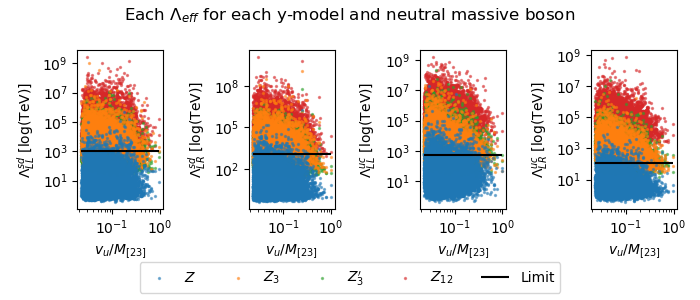
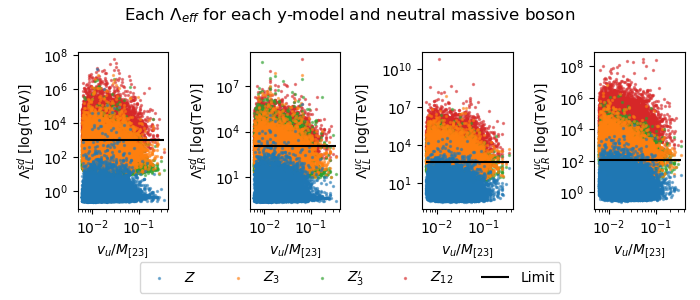
good results :)

diff --git a/simplemodel.py b/simplemodel.py
@@ -38,9 +38,10 @@ def get_delta2_V(g, gs, vs):
 # Function for minimize() that finds the gs that give the Z-boson mass
 # There should be an exact analytical solution to this.
 def closest_Z_mass(gs, mzs,g, vs):
-    M_b = build_M_b(g,gs,vs)
-    Delta2, V = fs.gauge_boson_basis(M_b) 
-    return np.sqrt(Delta2[1:]) - mzs
+    #M_b = build_M_b(g,gs,vs)
+    #Delta2, V = fs.gauge_boson_basis(M_b) 
+    Delta2, V = get_delta2_V(g,gs,vs)
+    return np.sqrt(2*Delta2[1:]) - mzs
 
 # Returns the basis for the Z-coupling in the standard model, with [I_L3, Q]
 def get_base_Z(g,g_prim):
@@ -188,7 +189,7 @@ def alt_solve_for_ys(ys,g,g_prim,v_us,v_ds, V, M_Us, m_us, m_ds):
 
     return compares
 
-def get_g_models(filename, g, search_for_gs = False):
+def get_g_models(filename, g, search_for_gs = False, verbose = False):
     if search_for_gs:
         v_chis = np.arange(1000,10000,10)
         m_Z3s = np.arange(1000,10000,10)
@@ -209,15 +210,17 @@ def get_g_models(filename, g, search_for_gs = False):
                 mzs = np.array([conts.m_Z, m_Z3, m_Z3prim, m_Z12])
                 gs, infodict,ier,mesg = fsolve(closest_Z_mass, gs,args=(mzs, g, vs), full_output=True, factor = 0.1)
                 diff = infodict["fvec"]
+                #print(gs)
                 
-                if all(gs <= 2)  and all(gs > 0.01) and np.abs(diff) < 1e-5:
+                if all(gs <= 2)  and all(gs > 0.01) and all(np.abs(diff) < 1e-5):
                     tmp_list = [mzs, vs, gs]
                     model_list.append(tmp_list)
-                    print(f"Successful model")
-                    print(f"gs: {gs}")
-                    print(f"vs : {vs}")
-                    print(f"mzs: {mzs}")
-                    print(f"Diff m_Zs = {diff}")                    
+                    if verbose:
+                        print(f"Successful model")
+                        print(f"gs: {gs}")
+                        print(f"vs : {vs}")
+                        print(f"mzs: {mzs}")
+                        print(f"Diff m_Zs = {diff}")                    
         if model_list:
             np.savez(filename, *model_list)
     
@@ -370,7 +373,8 @@ def refine_y_models(filename, y_model_list, g_model_list, cost_tol = 0.5, max_it
             res = least_squares(solve_for_ys, ys, args=(v_us,v_ds,V,M_Us,m_us,m_ds), 
                         loss = "linear", method= "trf", jac = "3-point", tr_solver="exact", max_nfev=max_iters, bounds = (-2,2)) #
         ys = res.x
-       # print(res.cost)
+        if verbose:
+            print(res.cost)
         if res.cost < cost_tol and all(np.abs(ys) > 0.01):
             successes += 1
             if alt:
@@ -504,6 +508,19 @@ def refine_y_models_old(filename, y_model_list, g_model_list, cost_tol = 0.5, ma
     print(f"The number of y_models is: {len(model_list)}")
     return model_list
 
+def pick_g_models(in_model_list, n_idxs = 1):
+    v_list = np.array([model[1,1] for model in in_model_list])
+    uniques, unique_idxs = np.unique(v_list, return_index=True)
+    unique_idxs = np.append(unique_idxs, len(v_list))
+    random_idxs = [np.random.randint(unique_idxs[i],unique_idxs[i+1], n_idxs) if n_idxs <= unique_idxs[i+1]-unique_idxs[i] 
+                   else np.random.randint(unique_idxs[i],unique_idxs[i+1],unique_idxs[i+1]-unique_idxs[i]) 
+                   for i in range(len(unique_idxs)-1)
+                   ]
+    random_idxs = np.concatenate(random_idxs).ravel()
+    out_model_list = [in_model_list[idx] for idx in random_idxs]
+    print(v_list[random_idxs])
+    return out_model_list
+
 if __name__ == "__main__":
     # According to definition
     g = conts.e_em/np.sqrt(conts.sw2)
@@ -514,14 +531,16 @@ if __name__ == "__main__":
     search_for_ys = False
     g_plotting = False
     y_plotting = True
-    g_model_list = get_g_models("correct_g_models.npz", g, search_for_gs)
+    g_model_list = get_g_models("correct_g_models_again.npz", g, search_for_gs)
 
-    #y_filename = "y_models_dof_28_1.npz"
+    g_model_list = pick_g_models(g_model_list, n_idxs=5)
+
+    y_filename = "y_models_dof_28_2.npz"
     #y_filename = "valid_y_models.npz"
-    y_filename = "refined_y_dof_28_2.npz"
-    y_model_list = get_y_models(y_filename, search_for_ys, g_model_list, cost_tol=0.3, max_iters=20, m_repeats=50, verbose=False, alt = True)
+    #y_filename = "refined_y_dof_28_2.npz"
+    y_model_list = get_y_models(y_filename, search_for_ys, g_model_list, cost_tol=0.3, max_iters=20, m_repeats=40, verbose=False, alt = True)
 
-    y_model_list = refine_y_models("refined_y_dof_28_3.npz", y_model_list, g_model_list, cost_tol=0.25, max_iters=None, verbose=False)
+    y_model_list = refine_y_models("refined_y_dof_28_1_1.npz", y_model_list, g_model_list, cost_tol=0.1, max_iters=100, verbose=False)
    
     # g_model: [mzs, vs, gs]
     # y_model: [y_us, y_ds, M_Us, tan_beta, g_idx]
